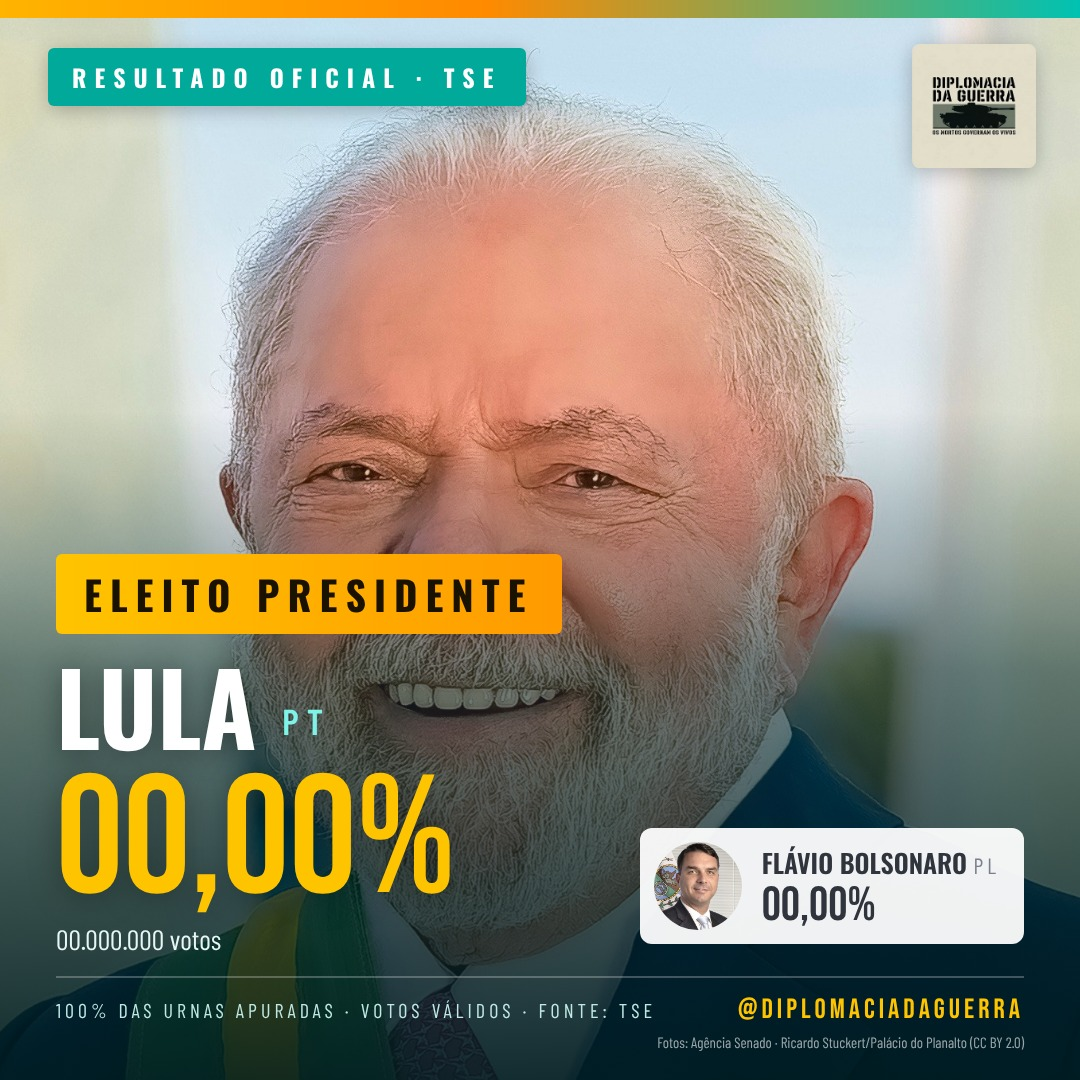
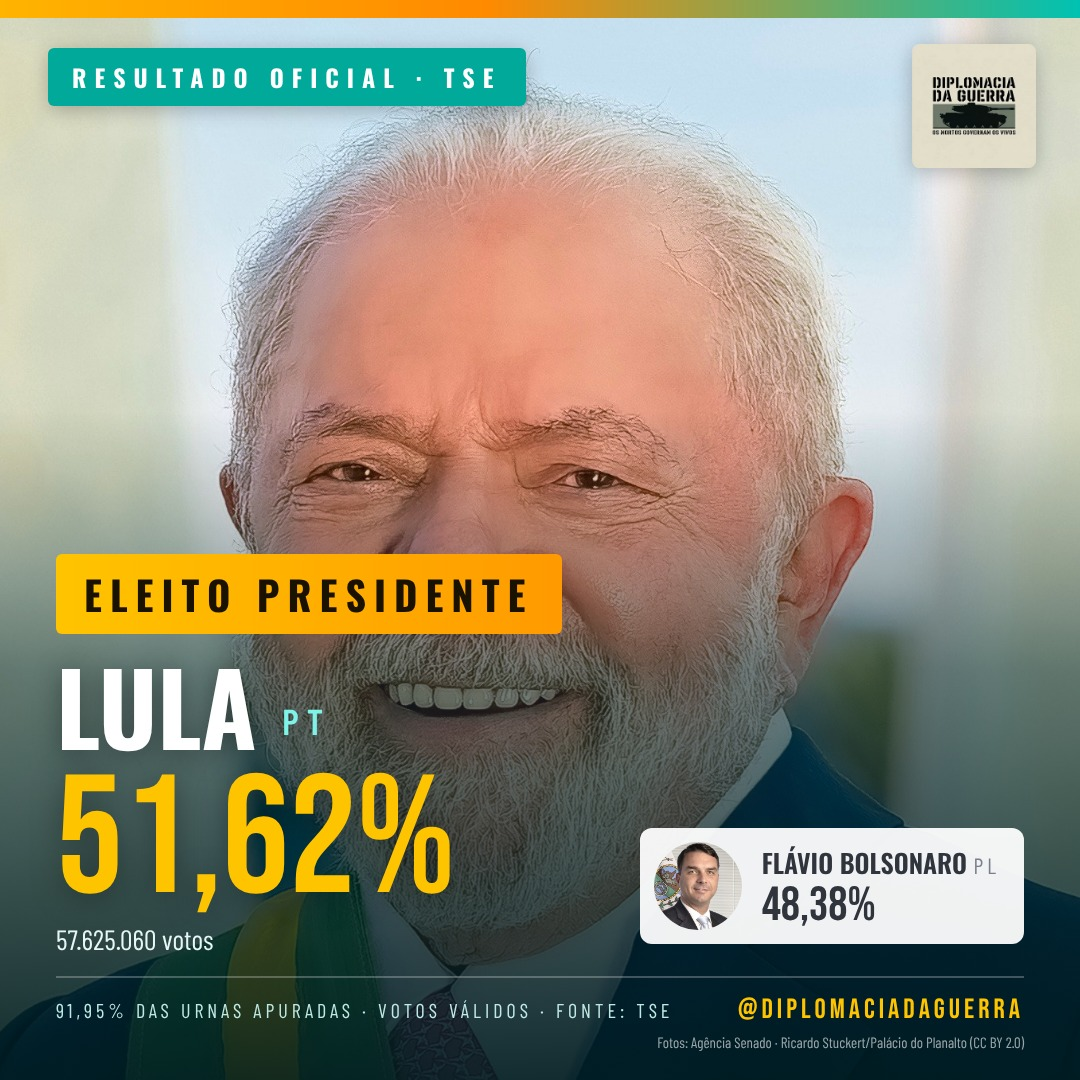
Card do resultado pré-preenchido com a parcial de 91,95% (aguardando oficialização do TSE) [skip ci]
Claude-Session: https://claude.ai/code/session_01QiFKwSdtp12PqLmFudL6sD

diff --git a/posts/2026-10-25-resultado-2turno/carrossel.html b/posts/2026-10-25-resultado-2turno/carrossel.html
@@ -132,14 +132,14 @@ blockquote cite{display:block;margin-top:6px;font-size:11px;font-style:normal;co
       <div class="v-eleito">Eleito presidente</div>
       <div class="v-nome">Lula <span class="v-partido">PT</span></div>
       <div class="v-linha">
-        <div><div class="v-pct">00,00%</div><div class="v-votos">00.000.000 votos</div></div>
+        <div><div class="v-pct">51,62%</div><div class="v-votos">57.625.060 votos</div></div>
         <div class="v-segundo">
[1 lines of base64/hex data omitted]
           <div><div class="v-s-nome">Flávio Bolsonaro <span>PL</span></div>
-          <div class="v-s-pct">00,00%</div></div>
+          <div class="v-s-pct">48,38%</div></div>
         </div>
       </div>
-      <div class="v-foot"><span>100% das urnas apuradas · votos válidos · Fonte: TSE</span><span class="v-handle">@diplomaciadaguerra</span></div>
+      <div class="v-foot"><span>91,95% das urnas apuradas · votos válidos · Fonte: TSE</span><span class="v-handle">@diplomaciadaguerra</span></div>
       <div class="v-credit">Fotos: Agência Senado · Ricardo Stuckert/Palácio do Planalto (CC BY 2.0)</div>
     </div>
   </div>
